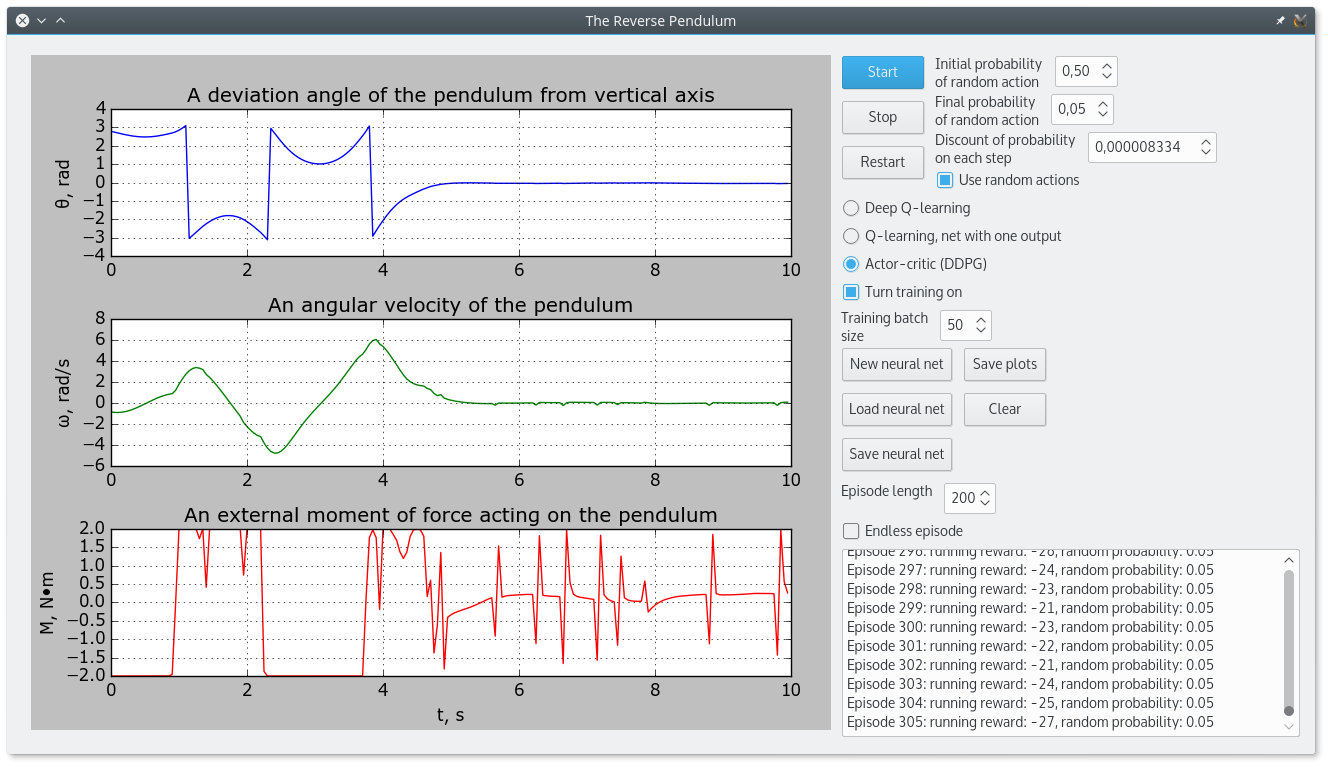
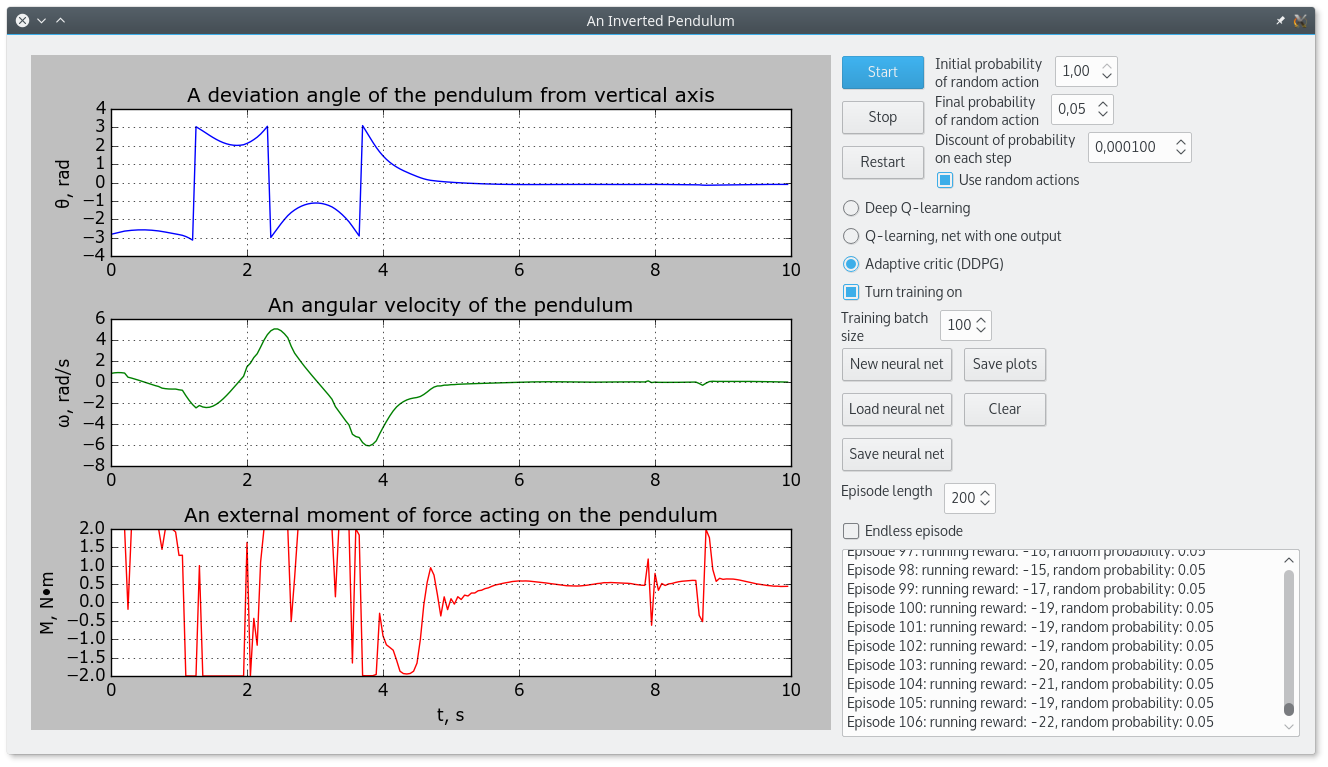
Minor improvements

diff --git a/q_learning.py b/q_learning.py
@@ -1,6 +1,7 @@
 import numpy as np
 from keras.models import Sequential, load_model
 from keras.layers import Dense
+from keras import optimizers
 from collections import deque
 
 
@@ -9,6 +10,7 @@ class QLearningModel(object):
     def __init__(self, state_len=3, action_len=1, a_bound=2, actions=2, neurons_n=(30, 14),
                  activations=("relu", "sigmoid")):
         """Конструктор"""
+        self.lr = 0.003  # Темп обучения нейросети
         self._state_len = state_len  # Длина вектора состояния
         self._action_len = action_len  # Длина вектора действия
         self._construct_net(state_len, action_len, actions, neurons_n, activations)  # Создать нейронную сеть
@@ -54,6 +56,7 @@ class QLearningModel(object):
                 self.neuralNet.add(Dense(n, input_dim=inputs_n, kernel_initializer="normal", activation=af))
             else:
                 self.neuralNet.add(Dense(n, kernel_initializer="normal", activation=af))
+        optimizer = optimizers.adam(lr=self.lr)
         self.neuralNet.compile(loss="mean_squared_error", optimizer="adam", metrics=["mae"])   # Компилируем сеть
         # Используется метод оптимизации Adam
 
@@ -194,6 +197,10 @@ class QLearningModel(object):
         max_Q1 = max_Q1.reshape((max_Q1.size, 1))
         alpha = 1
         return Q + alpha * a_batch * (r_batch + self.GAMMA * max_Q1 - Q)
+
+    def clear_memory(self):
+        """Очистить память опыта"""
+        self.replay_memory.clear()
 
     def close_session(self):
         """Закрыть сессию (для унификации с классами, использующими TensorFlow)"""

diff --git a/GUI.py b/GUI.py
@@ -71,7 +71,7 @@ class MainWindow(QWidget):
         eps_discount_max = 1
         eps_discount_step = 0.000001
         eps_discount_default_value = 0.0001
-        eps_discount_decimals = 9
+        eps_discount_decimals = 6
         # Параметры поля выбора конечной вероятности выбора случайного действия
         eps_final_min = 0
         eps_final_max = 1
@@ -86,7 +86,7 @@ class MainWindow(QWidget):
         batch_size_min = 1
         batch_size_max = 300
         batch_size_step = 10
-        batch_size_default_value = 50
+        batch_size_default_value = 100
         # Размер поля вывода данных
         text_field_size = (460, 190)
 
@@ -328,7 +328,8 @@ class MainWindow(QWidget):
     
     def new_nn(self):
         """Создать новую нейросеть со случайными коэффициентами"""
-        self.sim.new_nn()
+        self.sim.new_nn()   # Создать новую нейросеть и очистить опыт
+        self.change_start_eps()  # Обновить вероятность случайного действия
     
     def load_nn(self):
         """Загрузить нейросеть из файла"""

diff --git a/simulation.py b/simulation.py
@@ -62,6 +62,7 @@ class PendulumLearning(object):
     def new_nn(self):
         """Инициализировать нейронную сеть случайными весами"""
         self.learning_model.reset_nn()
+        self.learning_model.clear_memory()  # Очистить опыт
 
     def start(self):
         """Запустить управление маятником"""

diff --git a/actor_critic.py b/actor_critic.py
@@ -430,6 +430,12 @@ class ActorCritic(object):
         """
         tf.summary.FileWriter(folder_name, self.sess.graph)
 
+    def clear_memory(self):
+        """
+        Clear replay memory
+        """
+        self.replay_memory.clear()
+
     def close_session(self):
         """
         Close TensorFlow session
